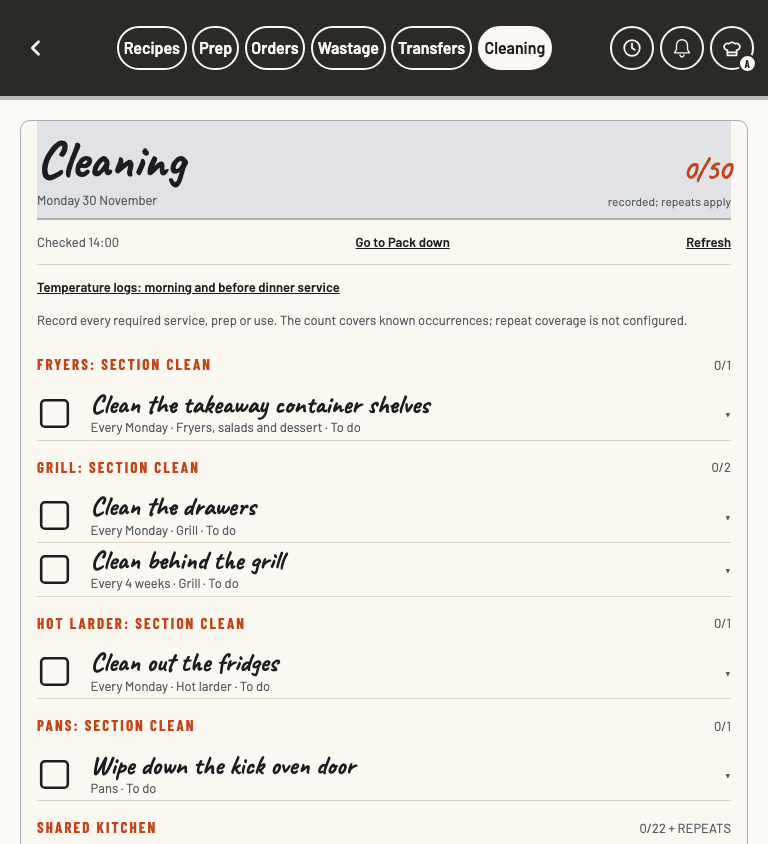
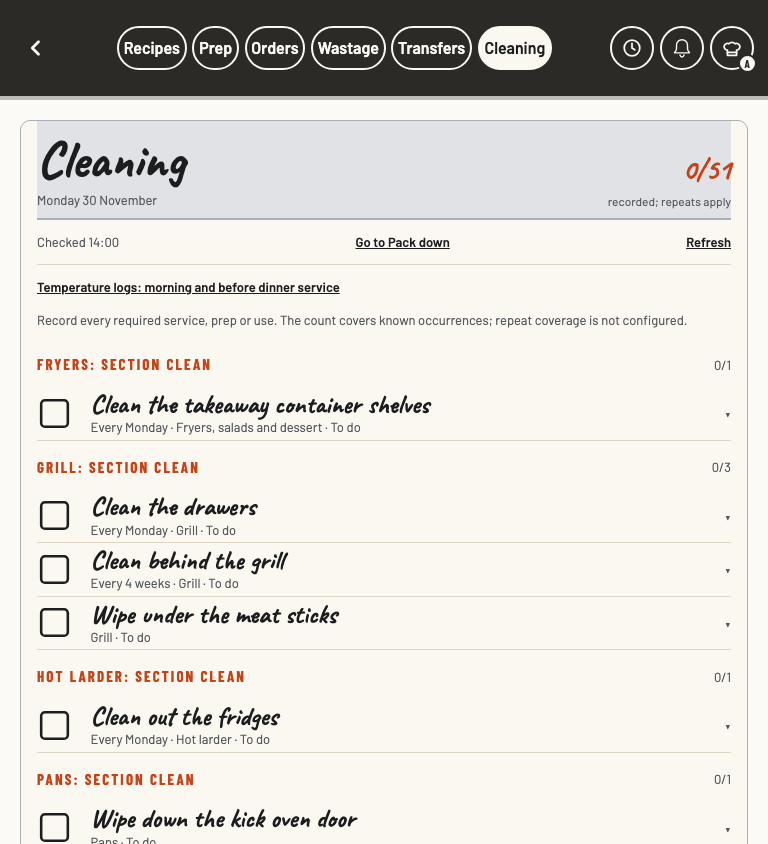
Section cleaning: the meat sticks line, the rules check and safer wrapping
- js/cleaning-schedule.js: "Wipe under the meat sticks" (Grill, every day) was
  in the head chef's list and in no saved job. The list is now 21 jobs.
- js/cleaning.js: the wrap for a line that says how often is also set on the
  line, since this lazy page can be newer than a phone's saved stylesheet; the
  first date link waits for a tick that is still sending; its hint says to
  choose tomorrow or later.
- tests/rules/client-shapes.test.mjs: one Load batch with a section job, an
  undated 28-day job and a shared job. On the emulator: allowed for the owner,
  the kitchen admin and a sous chef, refused for everyone else.
- Notes and measurements updated for 21 jobs: 81 reads per Cleaning open with
  all three lists, 5 whole jobs on a phone's first screen before and after.
- docs/cleaning-sections-options/brief.md: where each of the 49 lines went.

Changed region(s): [[0.0312, 0.7085, 0.4688, 1.0], [0.8438, 0.955, 0.9375, 0.9858], [0.9375, 0.1848, 0.9688, 0.2156]]

diff --git a/tests/cleaning-sections.test.js b/tests/cleaning-sections.test.js
@@ -26,25 +26,25 @@ const loaded = (list, changes = {}) => ({ ...sections(), ...Object.fromEntries(l
 const records = (p, collection) => p.evaluate(name => Object.entries(__fake.dump()).filter(([k]) => k.includes('/' + name + '/')).map(([path, data]) => ({ path, ...data })), collection);
 const listed = p => L.waitFor(p, () => { const page = document.querySelector('.cln-page'); return !!page && !/Loading cleaning/.test(page.textContent); });
 // the cook picked a section at the start of shift, so Your section today stays away
-const picked = (who, sec, name) => new Function("var d=new Date(Date.now()+36e5*10).toISOString().slice(0,10);localStorage.setItem('lk.sec." + who + "',JSON.stringify({d:d,sec:'" + sec + "',name:'" + name + "',self:true,at:Date.now()}));");
+const picked = () => { const d = new Date(Date.now() + 36e5 * 10).toISOString().slice(0, 10); localStorage.setItem('lk.sec.ann', JSON.stringify({ d, sec: 'grill', name: 'Grill', self: true, at: Date.now() })); };
 const row = code => '.cln-row[data-id="' + id(code) + '"]';
 const meta = (p, code) => p.locator(row(code) + ' .nb-meta').innerText();
 
 (async () => {
   // ---- the list itself, no browser ----
   const drafts = schedule.sectionDrafts(), codes = drafts.map(t => t.plan.template);
-  ok(drafts.length === 20 && new Set(codes).size === 20 && codes.every(c => /^sc-(grill|pans|fry|hot|gen)-\d\d$/.test(c)), 'data: 20 section jobs with their own stable ids');
+  ok(drafts.length === 21 && new Set(codes).size === 21 && codes.every(c => /^sc-(grill|pans|fry|hot|gen)-\d\d$/.test(c)), 'data: 21 section jobs with their own stable ids');
   ok(schedule.templates.length === 26 && schedule.packDown.length === 25 && !schedule.drafts().concat(schedule.packDownDrafts()).some(t => /^sc-/.test(t.plan.template)), 'data: the general list and Pack down are untouched');
   ok(drafts.every(t => !t.plan.checks.length && !t.plan.verification && t.plan.timing === 'daily'), 'data: every job is one tap, with no check list and no Pass check');
   ok(drafts.every(t => t.dows.length >= 1 && t.shared === true && t.section === ''), 'data: every draft has a day and no section until a chef chooses one');
   const monthly = drafts.filter(t => t.plan.repeat);
   ok(monthly.length === 3 && monthly.every(t => t.plan.repeat.days === 28 && t.plan.repeat.anchor === '' && t.dows.length === 7), 'data: three monthly jobs repeat every 28 days and wait for a first date');
   const byGroup = g => drafts.filter(t => schedule.sectionGroupOf(t) === g).length;
-  ok(schedule.sectionGroups.map(g => g.id + byGroup(g.id)).join(',') === 'grill2,pans3,fry5,hot7' && byGroup('') === 3, 'data: Grill 2, Pans 3, Fryers with salads and dessert 5, Hot larder 7, shared 3');
+  ok(schedule.sectionGroups.map(g => g.id + byGroup(g.id)).join(',') === 'grill3,pans3,fry5,hot7' && byGroup('') === 3, 'data: Grill 3, Pans 3, Fryers with salads and dessert 5, Hot larder 7, shared 3');
   const two = drafts.filter(t => t.plan.review);
   ok(two.length === 2 && two.every(t => schedule.sectionGroupOf(t) === '' && / and /.test(t.plan.responsibility)), 'data: a job the list gives to two sections is one shared job that names both, with a note');
   const days = [1, 2, 3, 4, 5, 6, 0].map(d => drafts.filter(t => !t.plan.repeat && t.dows.includes(d)).length);
-  ok(days.join(',') === '5,6,4,5,2,2,5', 'data: Monday to Sunday the list adds 5,6,4,5,2,2,5 jobs, two of them every day (' + days.join(',') + ')');
+  ok(days.join(',') === '6,7,5,6,3,3,6', 'data: Monday to Sunday the list adds 6,7,5,6,3,3,6 jobs, three of them every day (' + days.join(',') + ')');
   ok(!/\u2014|Australian Venue|\bAVC\b/.test(JSON.stringify(drafts)) && drafts.every(t => t.text.length <= 160 && t.area.length <= 80 && t.plan.method.length <= 1000 && t.plan.review.length <= 500), 'data: plain words within the saved sizes');
   drafts[0].text = 'Changed'; drafts[0].dows.push(9);
   ok(schedule.sectionDrafts()[0].text === 'Clean the drawers' && schedule.sectionDrafts()[0].dows.length === 1, 'data: editing a draft cannot change the built-in list');
@@ -67,8 +67,8 @@ const meta = (p, code) => p.locator(row(code) + ' .nb-meta').innerText();
     await L.pick(p, '[data-cln-import-section="fry"]', 'fryers');
     ok(await p.inputValue('[data-cln-import-section="fry"]') === 'fryers' && await p.inputValue('[data-cln-import-section="hot"]') === 'hl', 'load: a chosen section stays chosen, and the others stay as offered');
     await p.click('[data-cln="import-section"]');
-    await L.waitFor(p, () => Object.keys(__fake.dump()).filter(k => k.includes('/cleaningTasks/')).length === 20 && !LK_PREP.unsent());
-    await L.waitFor(p, () => /Loaded section cleaning: 20 added, 0 already present/.test((document.querySelector('.cln-section-import') || {}).textContent || ''));
+    await L.waitFor(p, () => Object.keys(__fake.dump()).filter(k => k.includes('/cleaningTasks/')).length === 21 && !LK_PREP.unsent());
+    await L.waitFor(p, () => /Loaded section cleaning: 21 added, 0 already present/.test((document.querySelector('.cln-section-import') || {}).textContent || ''));
     const said = await p.locator('.cln-section-import .lk-stamp').innerText();
     ok(/3 repeat jobs need a first date in Repeat tasks/i.test(said), 'load: the panel says what it added and that three jobs wait for a first date');
     const saved = await records(p, 'cleaningTasks'), find = code => saved.find(t => t.plan.template === code);
@@ -78,7 +78,7 @@ const meta = (p, code) => p.locator(row(code) + ' .nb-meta').innerText();
     ok(saved.every(t => t.path.endsWith('/' + id(t.plan.template)) && t.by === 'sam' && t.until === OPEN && t.from === at('2026-11-30')), 'load: each job has its own stable document and starts today');
     ok((await records(p, 'cleaningDone')).length === 0, 'load: loading records no cleaning');
     const again = await p.evaluate(() => LK_PREP.cleaning().importTasks(LK_CLEANING_SCHEDULE.sectionDrafts()));
-    ok(again.imported === 0 && again.skipped === 20 && (await records(p, 'cleaningTasks')).length === 20, 'load: loading again adds nothing and keeps the sections a chef chose');
+    ok(again.imported === 0 && again.skipped === 21 && (await records(p, 'cleaningTasks')).length === 21, 'load: loading again adds nothing and keeps the sections a chef chose');
 
     // the monthly jobs wait for a first date, and the page says so
     const notice = p.locator('.cln-plan .cln-first-date');
@@ -97,7 +97,7 @@ const meta = (p, code) => p.locator(row(code) + ' .nb-meta').innerText();
   });
 
   for (const width of [390, 768, 1280]) await step('a cook reads the day at ' + width, async () => {
-    p = await L.open(b, '#/cleaning', { who: 'ann', width, wait: 1000, clock: MON, init: picked('ann', 'grill', 'Grill'), extra: loaded([
+    p = await L.open(b, '#/cleaning', { who: 'ann', width, wait: 1000, clock: MON, init: picked, extra: loaded([
       ['c01'], ['c15'], ['pd-grill-01'], ['pd-grill-04'],
       ['sc-grill-01', 'grill'], ['sc-grill-02', 'grill', { plan: { ...task('sc-grill-02').plan, repeat: { days: 28, anchor: '2026-11-02' } } }],
       ['sc-pans-01', 'pans'], ['sc-pans-02', 'pans'], ['sc-pans-03', 'pans'], ['sc-fry-02', 'fryers'], ['sc-hot-01', 'hl'], ['sc-gen-01'], ['sc-gen-03']]) });
@@ -143,7 +143,7 @@ const meta = (p, code) => p.locator(row(code) + ' .nb-meta').innerText();
   });
 
   await step('a held save says Not sent', async () => {
-    p = await L.open(b, '#/cleaning', { who: 'ann', wait: 1000, clock: MON, init: picked('ann', 'grill', 'Grill'), extra: loaded([['sc-grill-01', 'grill']]) });
+    p = await L.open(b, '#/cleaning', { who: 'ann', wait: 1000, clock: MON, init: picked, extra: loaded([['sc-grill-01', 'grill']]) });
     await listed(p); await L.waitFor(p, () => document.querySelectorAll('.cln-row').length === 1);
     await p.evaluate(() => { __fake.mode = 'hold'; });
     await p.click('[data-cln="flow-quick"][data-id="' + id('sc-grill-01') + '"]');

diff --git a/js/cleaning.js b/js/cleaning.js
@@ -174,7 +174,7 @@
     var quickPending = quick && M.pending[key] && M.pending[key].control === 'quick';
     return '<li class="nb-row cln-row cln-plan-row' + (summary.done ? ' is-done' : '') + (M.pending[key] ? ' is-pending' : '') + '" data-id="' + esc(task.id) + '" data-cln-row="' + esc(key) + '">' +
       '<button type="button" class="nb-box" data-cln="' + (quick ? 'flow-quick' : 'details') + '" data-id="' + esc(task.id) + '" data-day="' + esc(day) + '"' + (quick ? ' data-slot="' + slot + '" data-kind="' + slot + '" aria-pressed="' + summary.done + '"' + (workEnabled(task, day) && (!summary.done || quickUndo) ? '' : ' disabled') : ' aria-expanded="' + open + '" aria-controls="cln-detail-' + esc(key) + '"') + (quickPending ? ' aria-busy="true"' : '') + ' aria-label="' + esc((quick ? summary.done ? quickUndo ? 'Undo: ' : 'Done: ' : 'Mark done: ' : open ? 'Close checks: ' : 'Open checks: ') + task.text + '. ' + flowState(task, day)) + '">' + C.box(summary.done) + '</button>' +
-      '<button type="button" class="nb-main cln-task-detail" data-cln="details" data-id="' + esc(task.id) + '" data-day="' + esc(day) + '" aria-expanded="' + open + '" aria-controls="cln-detail-' + esc(key) + '" aria-label="' + esc((open ? 'Close checks and method: ' : 'Open checks and method: ') + task.text) + '"><span class="nb-t">' + esc(task.text) + '</span><span class="' + metaClass(task) + '" title="' + esc(meta) + '">' + esc(meta) + '</span><span class="cln-detail-cue" aria-hidden="true">' + (open ? '▴' : '▾') + '</span></button>' + (open ? planDetails(task, day) : '') + '</li>';
+      '<button type="button" class="nb-main cln-task-detail" data-cln="details" data-id="' + esc(task.id) + '" data-day="' + esc(day) + '" aria-expanded="' + open + '" aria-controls="cln-detail-' + esc(key) + '" aria-label="' + esc((open ? 'Close checks and method: ' : 'Open checks and method: ') + task.text) + '"><span class="nb-t">' + esc(task.text) + '</span><span ' + metaAttrs(task) + ' title="' + esc(meta) + '">' + esc(meta) + '</span><span class="cln-detail-cue" aria-hidden="true">' + (open ? '▴' : '▾') + '</span></button>' + (open ? planDetails(task, day) : '') + '</li>';
   }
   function owner(task, day) {
     if (task.shared) return 'Shared kitchen';
@@ -192,8 +192,9 @@
     if (days.length === 1) return 'Every ' + (DAY_NAMES[days[0]] || '');
     return DAYS.filter(function (day) { return days.indexOf(day[0]) >= 0; }).map(function (day) { return day[1]; }).join(', ');
   }
-  // the small line's class: a line that says how often may wrap, so its state is never cut off
-  function metaClass(task) { return 'nb-meta' + (rhythm(task) ? ' cln-often' : ''); }
+  /* The small line's class. A line that says how often may wrap, so its state is never cut off. The style repeats
+     .cln-often from css/app.css on purpose: this page is lazy and can be newer than the saved stylesheet on a phone. */
+  function metaAttrs(task) { return rhythm(task) ? 'class="nb-meta cln-often" style="white-space:normal;overflow:visible;text-overflow:clip"' : 'class="nb-meta"'; }
   function packSection(task) { var id = task.plan && task.plan.template || ''; return id.indexOf('pd-hot-') === 0 ? 'Hot larder' : id.indexOf('pd-grill-') === 0 ? 'Grill' : id.indexOf('pd-pans-') === 0 ? 'Pans' : ''; }
   function groups(tasks, day) {
     var out = [], ids = [], pack = tasks.filter(function (task) { return !!packSection(task); }), floors = [];
@@ -218,7 +219,7 @@
     var label = (r && r.done ? C.canUndo(r) && day === T.day() ? 'Undo: ' : 'Done: ' : 'Mark done: ') + task.text + '. ' + meta;
     return '<li class="nb-row cln-row' + (complete ? ' is-done' : '') + (p ? ' is-pending' : '') + '" data-id="' + esc(task.id) + '" data-cln-row="' + esc(key) + '">' +
       '<button type="button" class="nb-box" data-cln="tick" data-id="' + esc(task.id) + '" data-day="' + esc(day) + '" aria-pressed="' + complete + '" aria-label="' + esc(label) + '"' + (can ? '' : ' disabled') + (p ? ' aria-busy="true"' : '') + '>' + C.box(complete) + '</button>' +
-      '<div class="nb-main"><span class="nb-t">' + esc(task.text) + '</span><span class="' + metaClass(task) + '" title="' + esc(meta) + '">' + esc(meta) + '</span>' +
+      '<div class="nb-main"><span class="nb-t">' + esc(task.text) + '</span><span ' + metaAttrs(task) + ' title="' + esc(meta) + '">' + esc(meta) + '</span>' +
       (error ? '<span class="cln-row-error" role="alert">' + esc(error) + ' <button type="button" class="p-link" data-cln="refresh">Refresh</button></span>' : '') + '</div>' +
       (task.guide && P.featOn('guides') ? '<a class="nb-go cln-how" href="#/guides/' + encodeURIComponent(task.guide) + '" aria-label="How to: ' + esc(task.text) + '">How to</a>' : '') + '</li>';
   }
@@ -342,7 +343,7 @@
   function firstDateNotice() {
     var list = C.chef() && M.state === 'ok' ? needFirstDate() : [];
     if (!list.length) return '';
-    return '<div class="cln-attention cln-first-date" role="status"><b>' + list.length + (list.length === 1 ? ' repeat job needs' : ' repeat jobs need') + ' a first date</b><span class="hint">Not due until a chef sets it.</span>' +
+    return '<div class="cln-attention cln-first-date" role="status"><b>' + list.length + (list.length === 1 ? ' repeat job needs' : ' repeat jobs need') + ' a first date</b><span class="hint">Not due until a chef sets it. Choose tomorrow or later: changes start tomorrow.</span>' +
       list.slice(0, 6).map(function (task) { return '<button type="button" class="p-link" data-cln="first-date" data-id="' + esc(task.id) + '">' + esc(task.text) + '</button>'; }).join('') + '</div>';
   }
   function earlierDrafts() { return Object.keys(M.workDrafts).filter(function (key) { return M.workDrafts[key].day < T.day() && workDirty(M.workDrafts[key]); }); }
@@ -587,7 +588,7 @@
     var button = event.target.closest && event.target.closest('[data-cln]'); if (!button || !M.root || !M.root.contains(button) || button.disabled || !C.allowed()) return;
     if (checkDay()) { event.preventDefault(); return; }
     var action = button.getAttribute('data-cln'), id = button.getAttribute('data-id'), task = id && taskById(id); event.preventDefault();
-    if (busy() && ['refresh', 'today', 'week', 'setup', 'previous', 'next', 'this-week'].indexOf(action) >= 0) { P.toast('Wait for the cleaning change to save.'); return; }
+    if (busy() && ['refresh', 'today', 'week', 'setup', 'first-date', 'previous', 'next', 'this-week'].indexOf(action) >= 0) { P.toast('Wait for the cleaning change to save.'); return; }
     if (action === 'tick' && task) tick(task, button.getAttribute('data-day'));
     else if (action === 'details' && hasPlan(task)) { var detailDay = button.getAttribute('data-day'), detailKey = occurrence(task, detailDay); M.expanded[detailKey] = !M.expanded[detailKey]; draw(); }
     else if (action === 'week-details' && hasPlan(task) && C.chef()) { M.selected = button.getAttribute('data-day'); M.expanded[occurrence(task, M.selected)] = true; draw(); var detail = M.root.querySelector('#cln-detail-' + occurrence(task, M.selected)); if (detail) { detail.setAttribute('tabindex', '-1'); detail.focus({ preventScroll: true }); } }

diff --git a/tests/read-budget.test.js b/tests/read-budget.test.js
@@ -67,9 +67,9 @@ async function reportData(p) {
   // once on an open, the same pull request). The budgets went up by those lookups, not by new reads: first 680 to 960, firstSum 300 to 580,
   // firstDig 300 to 240 (down, with the digests), reload 40 to 110, admin 760 to 1300, adminDig 760 to 440, admin2 240 to
   // 400; proof and fnManage are new.
-  // 25 Nov 2026, cleaning (new): a cook opening Cleaning with all three lists loaded measured 80: the 71 task documents,
+  // 25 Nov 2026, cleaning (new): a cook opening Cleaning with all three lists loaded measured 81: the 72 task documents,
   // 1 for today's completions and 8 rule lookups. It was 60 with the general list and Pack down alone, so the section
-  // jobs add 20 reads per open per device. The budget of 90 leaves room for 10 tasks a chef types in.
+  // jobs add 21 reads per open per device. The budget of 90 leaves room for 9 tasks a chef types in.
   const BUDGET = { first: 960, firstSum: 580, firstDig: 240, reload: 110, admin: 1300, adminDig: 440, adminSamePage: 60, admin2: 400, proof: 260, fnManage: 140, cleaning: 90 };
   const show = !!process.env.RB_SHOW;
 
@@ -208,7 +208,7 @@ async function reportData(p) {
   await p.context().close();
 
   // Cleaning (25 Nov 2026, section cleaning): a cook opens Cleaning with the general list, Pack down and the section jobs
-  // all loaded: 71 task documents. The page reads every live task once per open or Refresh, so each task a chef adds is
+  // all loaded: 72 task documents. The page reads every live task once per open or Refresh, so each task a chef adds is
   // one more read here, per device. Counted from a book that is already open, so only Cleaning's own reads are in it.
   const sched = require('../js/cleaning-schedule'), withClean = Object.assign({}, extra);
   sched.drafts().concat(sched.packDownDrafts(), sched.sectionDrafts()).forEach(t => {
@@ -229,7 +229,7 @@ async function reportData(p) {
   {
     ok(proof <= BUDGET.proof, 'admin panel opened on the Proofreader with the day digests: ' + proof + ' reads (budget ' + BUDGET.proof + ')');
     ok(fnManage <= BUDGET.fnManage, 'Manage functions with 12 bookings ahead: ' + fnManage + ' reads (budget ' + BUDGET.fnManage + ')');
-    ok(cleaning <= BUDGET.cleaning, 'Cleaning opened by a cook with 71 tasks loaded: ' + cleaning + ' reads (budget ' + BUDGET.cleaning + ')');
+    ok(cleaning <= BUDGET.cleaning, 'Cleaning opened by a cook with 72 tasks loaded: ' + cleaning + ' reads (budget ' + BUDGET.cleaning + ')');
     ok(first <= BUDGET.first, 'staff first open today: ' + first + ' reads (budget ' + BUDGET.first + ')');
     ok(firstSum <= BUDGET.firstSum, 'staff first open today with the nightly summaries: ' + firstSum + ' reads (budget ' + BUDGET.firstSum + ')');
     ok(firstDig <= BUDGET.firstDig, 'staff first open today with the summaries and day digests: ' + firstDig + ' reads (budget ' + BUDGET.firstDig + ')');

diff --git a/js/cleaning-schedule.js b/js/cleaning-schedule.js
@@ -91,6 +91,7 @@
   var sectionClean = [
     job('grill', '01', 'Clean the drawers', [1]),
     job('grill', '02', 'Clean behind the grill', null, '', { monthly: true }),
+    job('grill', '03', 'Wipe under the meat sticks'),
     job('pans', '01', 'Wipe down the kick oven door'),
     job('pans', '02', 'Clean both sides of the stove', [2], 'Pull the infill benches forward and clean the sides of the stove on both sides.'),
     job('pans', '03', 'Clean behind the stove', null, 'Pull the stove forward and clean behind it.', { monthly: true }),

diff --git a/docs/cleaning-sections-options/brief.md b/docs/cleaning-sections-options/brief.md
@@ -278,29 +278,40 @@ Changed from the previews while building step 1, with the reason:
 
 ### Built: step 1 (25 November 2026)
 
-Twenty jobs in `sectionClean` (`js/cleaning-schedule.js`): Grill 2, Pans 3, Fryers with salads and dessert 5, Hot larder 7, shared 3. Loaded by a chef in Repeat tasks, **Load section cleaning**, with a kitchen section chosen for each group. [The contract](../cleaning-schedule.md#section-cleaning-25-november-2026).
+Twenty-one jobs in `sectionClean` (`js/cleaning-schedule.js`): Grill 3, Pans 3, Fryers with salads and dessert 5, Hot larder 7, shared 3. Loaded by a chef in Repeat tasks, **Load section cleaning**, with a kitchen section chosen for each group. [The contract](../cleaning-schedule.md#section-cleaning-25-november-2026).
 
-Left out of the list, for the head chef:
+Every one of the 49 lines, by its number in the [proposal](proposal.md), and where it went:
 
-- Already in Pack down or the general list: the flat grill, the chargrill brush, under the grill and flat top, the grill screen, the stove tops and their drip trays, the resting rack, the fryers, the microwave, the impinger, the parmie fridge, and the fridge doors (the daily general fridge task names doors).
-- Different from the saved Pack down steps, so not loaded: the drip tray every night (saved: every 2 days) and the OZ tank twice a week (saved: Sunday). A chef changes those two jobs in Repeat tasks.
-- No day given: the dishpit shelves, the meat doneness sticks, the wall behind the hand washing sink, the Pans drawer fridge, the screens on Pans, Fryers and Hot larder, the oven wipe down, the weekly step and top, the rack shelves under the oven, the second Hot larder "empty out fridges" line, and the outside area with the takeaway containers in the dry goods room. A chef adds each in Add cleaning task with its day.
-- Standing rules, not jobs: no more foil; keep the fridge and freezer tidy.
+| Where it went | Lines | Count |
+| --- | --- | --- |
+| Loaded, 21 jobs | Grill 5, 6, 10 (wipe under the meat sticks), 12. Pans 4, 5, 6, 8. Fryers 5, 7, 8, 9, 11, 12. Hot larder 1, 3, 4, 7, 8, 9, 10, 11. Everyone: decant sauces | 23 |
+| Already in Pack down or the general list, not loaded | Grill 1, 2, 7 and the screen in 10. Pans 1, 3. Fryers 1, 6 (the daily general fridge task names doors), 10. Hot larder 2, 5 | 10 |
+| Differs from a saved Pack down step, not loaded | Grill 3 (drip tray every night; saved: every 2 days). Grill 4 (OZ tank twice a week; saved: Sunday) | 2 |
+| No day given, left for a chef to add | Grill 8, 9, 11. Pans 7, 9. Fryers 2, 3, 4, 13. Hot larder 6, 12. Everyone: the outside area and the takeaway containers | 12 |
+| A standing rule, not a job | Pans 2 (no more foil). Everyone: keep the fridge and freezer tidy | 2 |
 
-Measured on the **Implemented app** (the click tests' Firebase stand-in, source of this pull request, line cook on Grill, synthetic Monday 30 November 2026, 844 px tall, Barlow, Barlow Condensed and Caveat, both existing lists loaded, then the 20 jobs as a chef would load them; `implementation/measure.cjs`, `implementation/measurements.json`):
+Two pairs of lines are one job each: Grill 6 with Pans 8 (the shelves above the pass, Wednesday) and Fryers 12 with Hot larder 4 (behind the deep fryers, monthly). Each is a Shared kitchen job that names both sections, with a note to set one owner. Fryers 6 (the fridge doors) was drawn in the previews as its own job and is not loaded: the daily general fridge task already names doors.
+
+Measured on the **Implemented app** (the click tests' Firebase stand-in, source of this pull request, line cook on Grill, synthetic Monday 30 November 2026, 844 px tall, Barlow, Barlow Condensed and Caveat, both existing lists loaded, then the 21 jobs as a chef would load them; `implementation/measure.cjs`, `implementation/measurements.json`):
 
 | | Before, 390 | After, 390 | Before, 768 | After, 768 | Before, 1280 | After, 1280 |
 | --- | --- | --- | --- | --- | --- | --- |
-| Jobs on the page that Monday | 46 | 52 | 46 | 52 | 46 | 52 |
-| Whole jobs on the first screen | 5 | 4 | 7 | 5 | 8 | 5 |
-| Page length, screens | 4.9 | 5.6 | 4.0 | 4.6 | 3.8 | 4.4 |
-| Screens down to Grill pack down | 2.9 | 3.6 | 2.5 | 3.1 | 2.3 | 2.9 |
+| Jobs on the page that Monday | 46 | 53 | 46 | 53 | 46 | 53 |
+| Whole jobs on the first screen | 5 | 5 | 7 | 5 | 8 | 5 |
+| Page length, screens | 4.9 | 5.7 | 4.0 | 4.7 | 3.8 | 4.4 |
+| Screens down to Grill pack down | 2.9 | 3.7 | 2.5 | 3.2 | 2.3 | 3.0 |
 | Lines that say how often, cut off | 0 of 1 | 0 of 5 | 0 of 1 | 0 of 5 | 0 of 1 | 0 of 5 |
 | Other small lines cut off (as before) | 4 | 4 | 0 | 0 | 0 | 0 |
 | Sideways scroll, buttons under 44 px | none | none | none | none | none | none |
 
-Taps to tick one of the new jobs: 1, exercised (`tests/cleaning-sections.test.js`), and the row does not move or change height when ticked. On a shared kitchen screen a tick still asks who did it, as before. Under service rule 4: the page loses one whole job on a phone's first screen and Grill pack down moves 0.7 screens further down, because the section groups sit above Shared kitchen as in design A. The reason it is worth it for now is that the weekly and monthly jobs are in the book at all; step 2 brings the cook's own section, with its Pack down, to the top.
+Taps to tick one of the new jobs: 1, exercised (`tests/cleaning-sections.test.js`), and the row does not move or change height when ticked. On a shared kitchen screen a tick still asks who did it, as before. Under service rule 4: a phone's first screen still holds 5 whole jobs, but a tablet and a laptop lose 2 and 3, and Grill pack down moves 0.8 screens further down on a phone, because the section groups sit above Shared kitchen as in design A. The reason it is worth it for now is that the weekly and monthly jobs are in the book at all; step 2 brings the cook's own section, with its Pack down, to the top.
 
 Differences from the preview of A: the headings under the Pack down title keep their names; the rows are planned rows, so the words open the method and the box is the one tap; a group's long name ("Fryers, salads and dessert") makes that group's small line wrap to two lines.
 
-Exercised in the click tests: load, the offered and chosen sections, loading twice, the first date notice and setting a date, the row at three widths, one tap and Undo, a held save reading Not sent, the chef's groups and editor. Not exercised: Extra large text, dark mode, keyboard focus order, contrast, a refused save on these rows, the rules emulator for this pull request (no rule changed; a task saved with an empty first date is already covered by `tests/rules/cleaning.test.mjs`). Not live: nothing is loaded in the real book until a chef presses Load.
+Checked on the Firestore emulator (`tests/rules`, `client-shapes` and `cleaning`): one Load batch with a job saved to a kitchen section, an undated 28-day job and a shared job is allowed for the owner, the kitchen admin and a sous chef, and refused for staff, a lead, view only, Functions only and the shared tablet; 312 client shape rows and 742 cleaning rule checks pass. No rule changed.
+
+Exercised in the click tests: load, the offered and chosen sections, loading twice, the first date notice and setting a date, the row at three widths, one tap and Undo, a held save reading Not sent, the chef's groups and editor. Not exercised: two chefs pressing Load at the same moment (the second batch would be refused, since each task is a create; nothing is doubled, and that chef would see an error and Refresh), Extra large text, dark mode, keyboard focus order, contrast, a refused save on these rows. Not live: nothing is loaded in the real book until a chef presses Load.
+
+A first date set to today does not bring the job up today: a change to a job starts tomorrow, so it first comes up 28 days later. The notice says to choose tomorrow or later.
+
+The row's wrap is also set on the line itself, because the Cleaning page is lazy and can be newer than the stylesheet a phone has saved.

diff --git a/README.md b/README.md
@@ -89,7 +89,7 @@ Signed out, Home shows the day as its heading, **Kitchen sign in** as its one ma
 
 The [Cleaning page](docs/cleaning-schedule.md) (extended 9 November 2026) keeps the approved staff daily checklist and uses the chosen M1 grouped Today/Week review with a responsive Repeat tasks editor for admin, head and sous chefs. Cleaning takes the sixth navigation tab; Guides is in the chef hat under More. Chefs can load the unbranded 26-task schedule and the ordered 25-step Hot larder, Grill and Pans pack down, then set local responsibilities, repeat days, instructions, required checks and authorised Pass checkers. Pack down keeps Sunday deep cleaning separate from the two-day grill drip-tray cycle anchored to 9 November 2026, and overhead shelves before the final floor clean. Service, prep and equipment-use checks are recorded separately; blocked work and food labelling awaiting Pass remain incomplete. Task revisions and immutable actions preserve earlier records. A reminder explains the morning and pre-dinner temperature logs without claiming a connected log exists. Cleaning starts off for the team. The verified admin enables it under Kitchen → Overview → Pages staff see; head and sous chefs retain setup access. See [the release switch](docs/cleaning-options/release-toggle.md). The [three designs and council](docs/cleaning-options/brief.md) remain the layout decision record. Verification and release limits are recorded with the implementation.
 
-**Section cleaning (25 November 2026).** In Repeat tasks, **Load section cleaning** adds the head chef's own weekly, monthly and extra daily jobs for Grill, Pans, Fryers with salads and dessert, and Hot larder: 20 jobs that Pack down does not already hold, each one tap. The chef chooses the kitchen section for each group before loading. A job that is not nightly now says how often on its row ("Every Monday", "Every 4 weeks"), and a section's own jobs sit under "Grill: section clean". Monthly jobs come up only after a chef sets their first date; the page names the ones still waiting. Jobs with no day in his list are added by a chef in Add cleaning task. [The contract](docs/cleaning-schedule.md#section-cleaning-25-november-2026), [the designs and council](docs/cleaning-sections-options/brief.md).
+**Section cleaning (25 November 2026).** In Repeat tasks, **Load section cleaning** adds the head chef's own weekly, monthly and extra daily jobs for Grill, Pans, Fryers with salads and dessert, and Hot larder: 21 jobs that Pack down does not already hold, each one tap. The chef chooses the kitchen section for each group before loading. A job that is not nightly now says how often on its row ("Every Monday", "Every 4 weeks"), and a section's own jobs sit under "Grill: section clean". Monthly jobs come up only after a chef sets their first date; the page names the ones still waiting. Jobs with no day in his list are added by a chef in Add cleaning task. [The contract](docs/cleaning-schedule.md#section-cleaning-25-november-2026), [the designs and council](docs/cleaning-sections-options/brief.md).
 
 On the staff Cleaning page, **Go to Pack down** sits beside the latest check time when there is pack-down work due that day.
 
@@ -362,7 +362,7 @@ Drawings for The Pass are in `js/art.js`. A recipe with no drawing still shows, 
 | `scripts/mascot-head-points.py`, `tests/mascot-hats.test.js` | Measures where the mascot's head is in each of his 99 pictures, for the festive hats, and writes the table into `js/mascot.js`. Run it only when `art/mascot/` changes (Python 3 with Pillow); the test fails on new art until then |
 | `js/fools.js`, `css/fools.css` | April Fools on Home: 24 jokes, loaded only on 1 April or for the admin panel's preview. See [April Fools](docs/april-fools.md) |
 | `js/prep.js` | Prep list, orders, wastage, shift pings, minutes, admin panel, staff lock, learning |
-| `js/cleaning.js`, `js/cleaning-schedule.js` | Cleaning notebook, optional unbranded 26-task schedule, ordered 25-step pack down and the 20 section jobs. Lazy, API 2 workspace; explicit chef import, required checks, anchored intervals, event records and Pass verification. [Contract](docs/cleaning-schedule.md) |
+| `js/cleaning.js`, `js/cleaning-schedule.js` | Cleaning notebook, optional unbranded 26-task schedule, ordered 25-step pack down and the 21 section jobs. Lazy, API 2 workspace; explicit chef import, required checks, anchored intervals, event records and Pass verification. [Contract](docs/cleaning-schedule.md) |
 | `js/cleaning-core.js` | How a cleaning day reads: due, each job's checks, their counts and a finished day. One copy for the Cleaning page, the book's cleaning write check and the nightly Records count (node). Lazy, loaded with Cleaning. [Contract](docs/cleaning-schedule.md#one-reading-of-a-day) |
 | `js/proofreader-admin.js` | Admin Proofreader: review saved spelling corrections, restore or edit wording, manage shared protected words and view private history. Loaded only on the admin page |
 | `js/firebase-config.js` | Public Firebase web config |

diff --git a/docs/firestore-usage.md b/docs/firestore-usage.md
@@ -44,7 +44,7 @@ The chosen [M1 chef layout](cleaning-chef-options/implementation.md) adds no que
 
 Opening or refreshing Cleaning keeps the existing two bounded queries: applicable task revisions and today's occurrence states, or at most a week for canonical chefs. Explicit schedule import adds one bounded all-revision query, one missing-task batch and a normal two-query reload; repeating it never creates duplicate tasks. Every enhanced action writes current state plus one immutable audit snapshot atomically. Daily and week views do not read the action history. No startup cleaning query, listener, polling or private persistent copy is added. The nightly backup adds one action day-range query. Existing session/config rule lookups and task/audit validation reads remain separate server-rule costs. See [the feature contract](cleaning-schedule.md).
 
-Section cleaning (25 November 2026) adds no query or listener. Cleaning reads every live task once per open or Refresh, so the 20 section jobs are 20 more reads per open per device once a chef loads them: 80 for a cook with all three lists loaded against 60 before (71 tasks, 1 for the day's completions, 8 rule lookups; `tests/read-budget.test.js`, budget 90). Every task a chef types in costs one more.
+Section cleaning (25 November 2026) adds no query or listener. Cleaning reads every live task once per open or Refresh, so the 21 section jobs are 21 more reads per open per device once a chef loads them: 81 for a cook with all three lists loaded against 60 before (72 tasks, 1 for the day's completions, 8 rule lookups; `tests/read-budget.test.js`, budget 90). Every task a chef types in costs one more.
 
 On 5 November 2026 the database refused every read from 13:00: the free plan's 50,000 reads for the day were used up (they reset at midnight in California, 18:00 kitchen time). The head chef asked what reads and writes what, and how to get the most out of the free plan. This note is the answer: every read and write in `js/`, `sw.js`, `scripts/` and the workflows, with measured costs where they could be measured.
 

diff --git a/docs/session-map.md b/docs/session-map.md
@@ -6,9 +6,9 @@ The head chef gave a written cleaning list for Grill, Pans, Fryers with salads a
 
 | Files | Role and checks |
 | --- | --- |
-| `js/cleaning-schedule.js` | `sectionClean`: 20 jobs with a stated day that Pack down and the general list do not hold, `sectionDrafts()`, `sectionGroups`, `sectionGroupOf()`. Three monthly jobs repeat every 28 days with no first date. `tests/cleaning-sections.test.js` (data). |
+| `js/cleaning-schedule.js` | `sectionClean`: 21 jobs with a stated day that Pack down and the general list do not hold, `sectionDrafts()`, `sectionGroups`, `sectionGroupOf()`. Three monthly jobs repeat every 28 days with no first date. `tests/cleaning-sections.test.js` (data). |
 | `js/cleaning.js` | **Load section cleaning** with a section picker per group (`sectionImportPanel()`, `sectionChoice()`), how often on the row (`rhythm()`, `.cln-often`), "Grill: section clean" headings, the first date notice (`firstDateNotice()`), no empty Method. `tests/cleaning-sections.test.js` (68 checks: load, sections, first date, the row at 390, 768 and 1280, one tap and Undo, a held save, the chef's view). |
-| `tests/read-budget.test.js` | Cleaning opened by a cook with all three lists: 80 reads, budget 90. |
+| `tests/read-budget.test.js` | Cleaning opened by a cook with all three lists: 81 reads, budget 90. |
 | `docs/cleaning-sections-options/` | Proposal, brief, both reviewer packets, the design page, previews with `build.cjs`, and `implementation/` (the built page measured by `measure.cjs`). |
 
 Not built: step 2 (the page opens on your section; needs a chef-set link from a kitchen section to its Pack down group) and step 3 (This screen's section on a shared kitchen screen). Open with the head chef: `docs/open-work.md`, Open items.

diff --git a/docs/cleaning-schedule.md b/docs/cleaning-schedule.md
@@ -85,7 +85,7 @@ The head chef's own weekly, monthly and extra daily jobs for each section are a 
 - **Monthly.** A monthly job repeats every 28 days from a first date. It loads with none, so it is never due and never counted until a chef sets it. Today and Repeat tasks name each repeat job that still needs a first date; a name opens that job's editor on the date.
 - **How often, in words.** A job that is not nightly says how often at the start of its small line: "Every Monday", "Mon, Wed, Fri", "Every 4 weeks", "Every 2 days". This holds for every list, loaded or typed. Only such a line may wrap, so the state at its end is never cut off. A nightly job's line is unchanged.
 - **Headings.** A section's own group is headed with its name and ": section clean". The same section's group under the Pack down title keeps its name.
-- **Reads.** No new query, listener or rule. Each loaded job is one more task document on every Cleaning open or Refresh: 20 more reads per open per device with the whole list loaded (`tests/read-budget.test.js`, Cleaning).
+- **Reads.** No new query, listener or rule. Each loaded job is one more task document on every Cleaning open or Refresh: 21 more reads per open per device with the whole list loaded (`tests/read-budget.test.js`, Cleaning).
 
 Steps 2 (the page opens on your section) and 3 (This screen's section on a shared kitchen screen) are not built. Step 2 still needs an explicit link between a kitchen section and its Pack down group.
 
